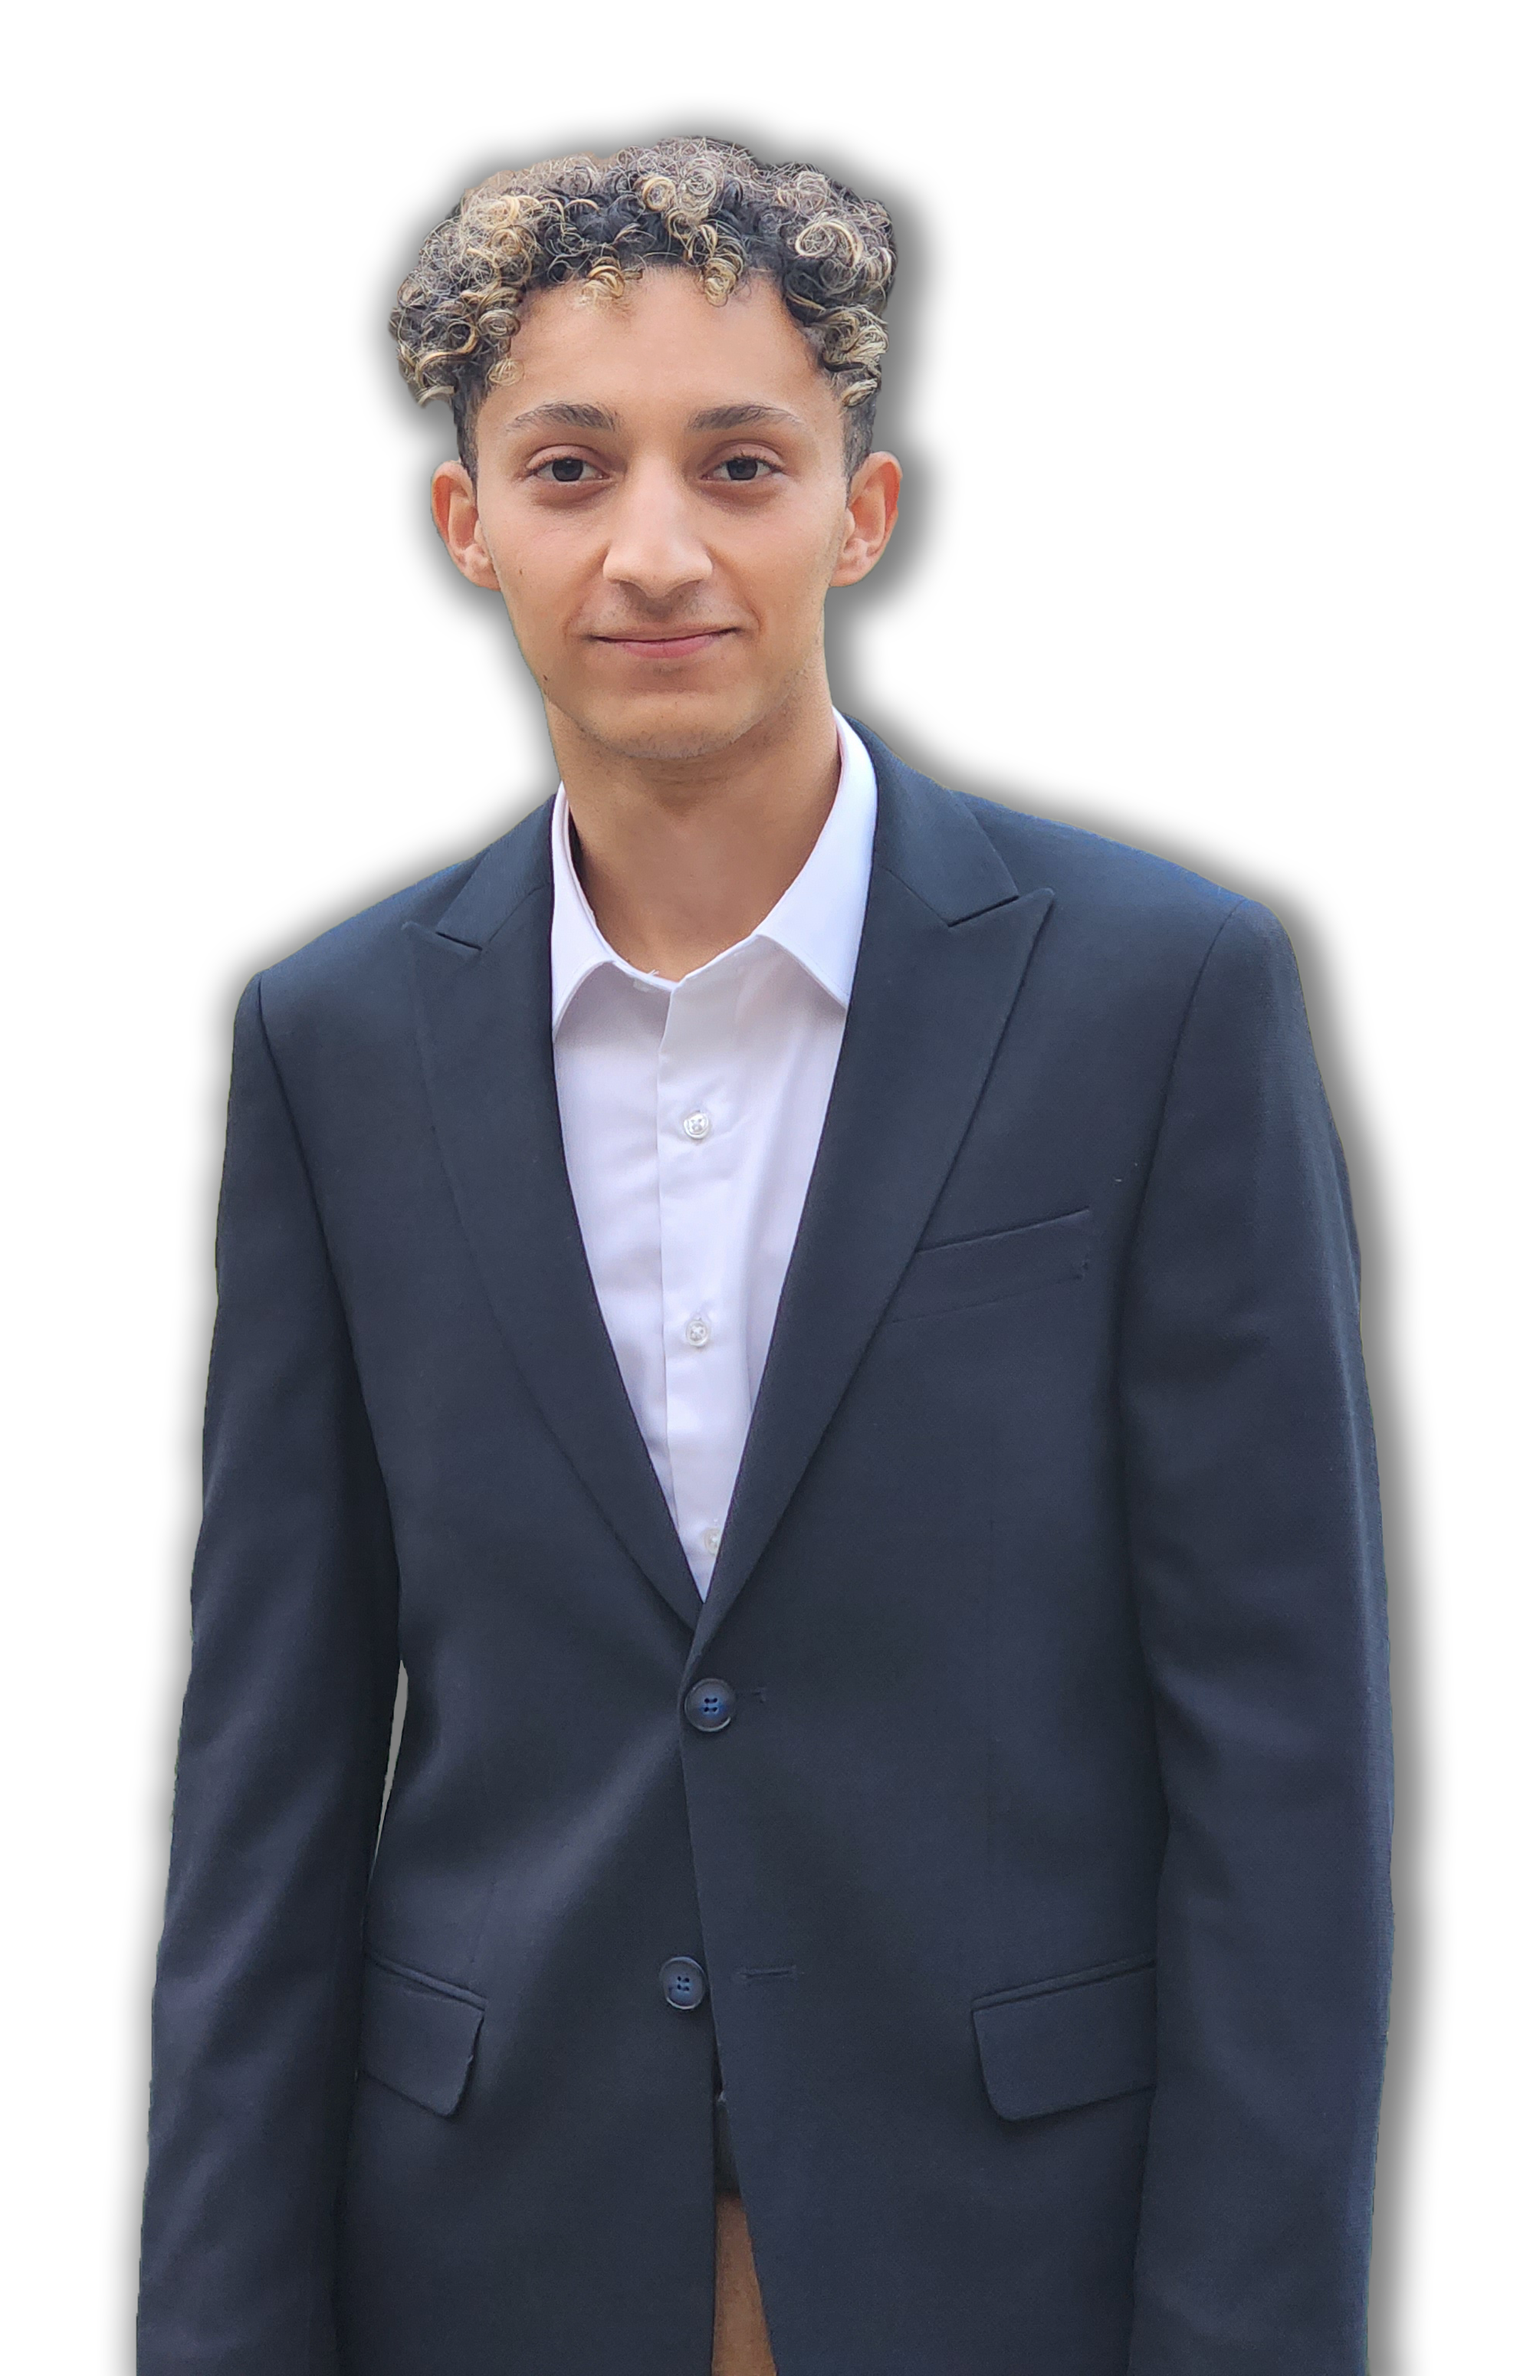
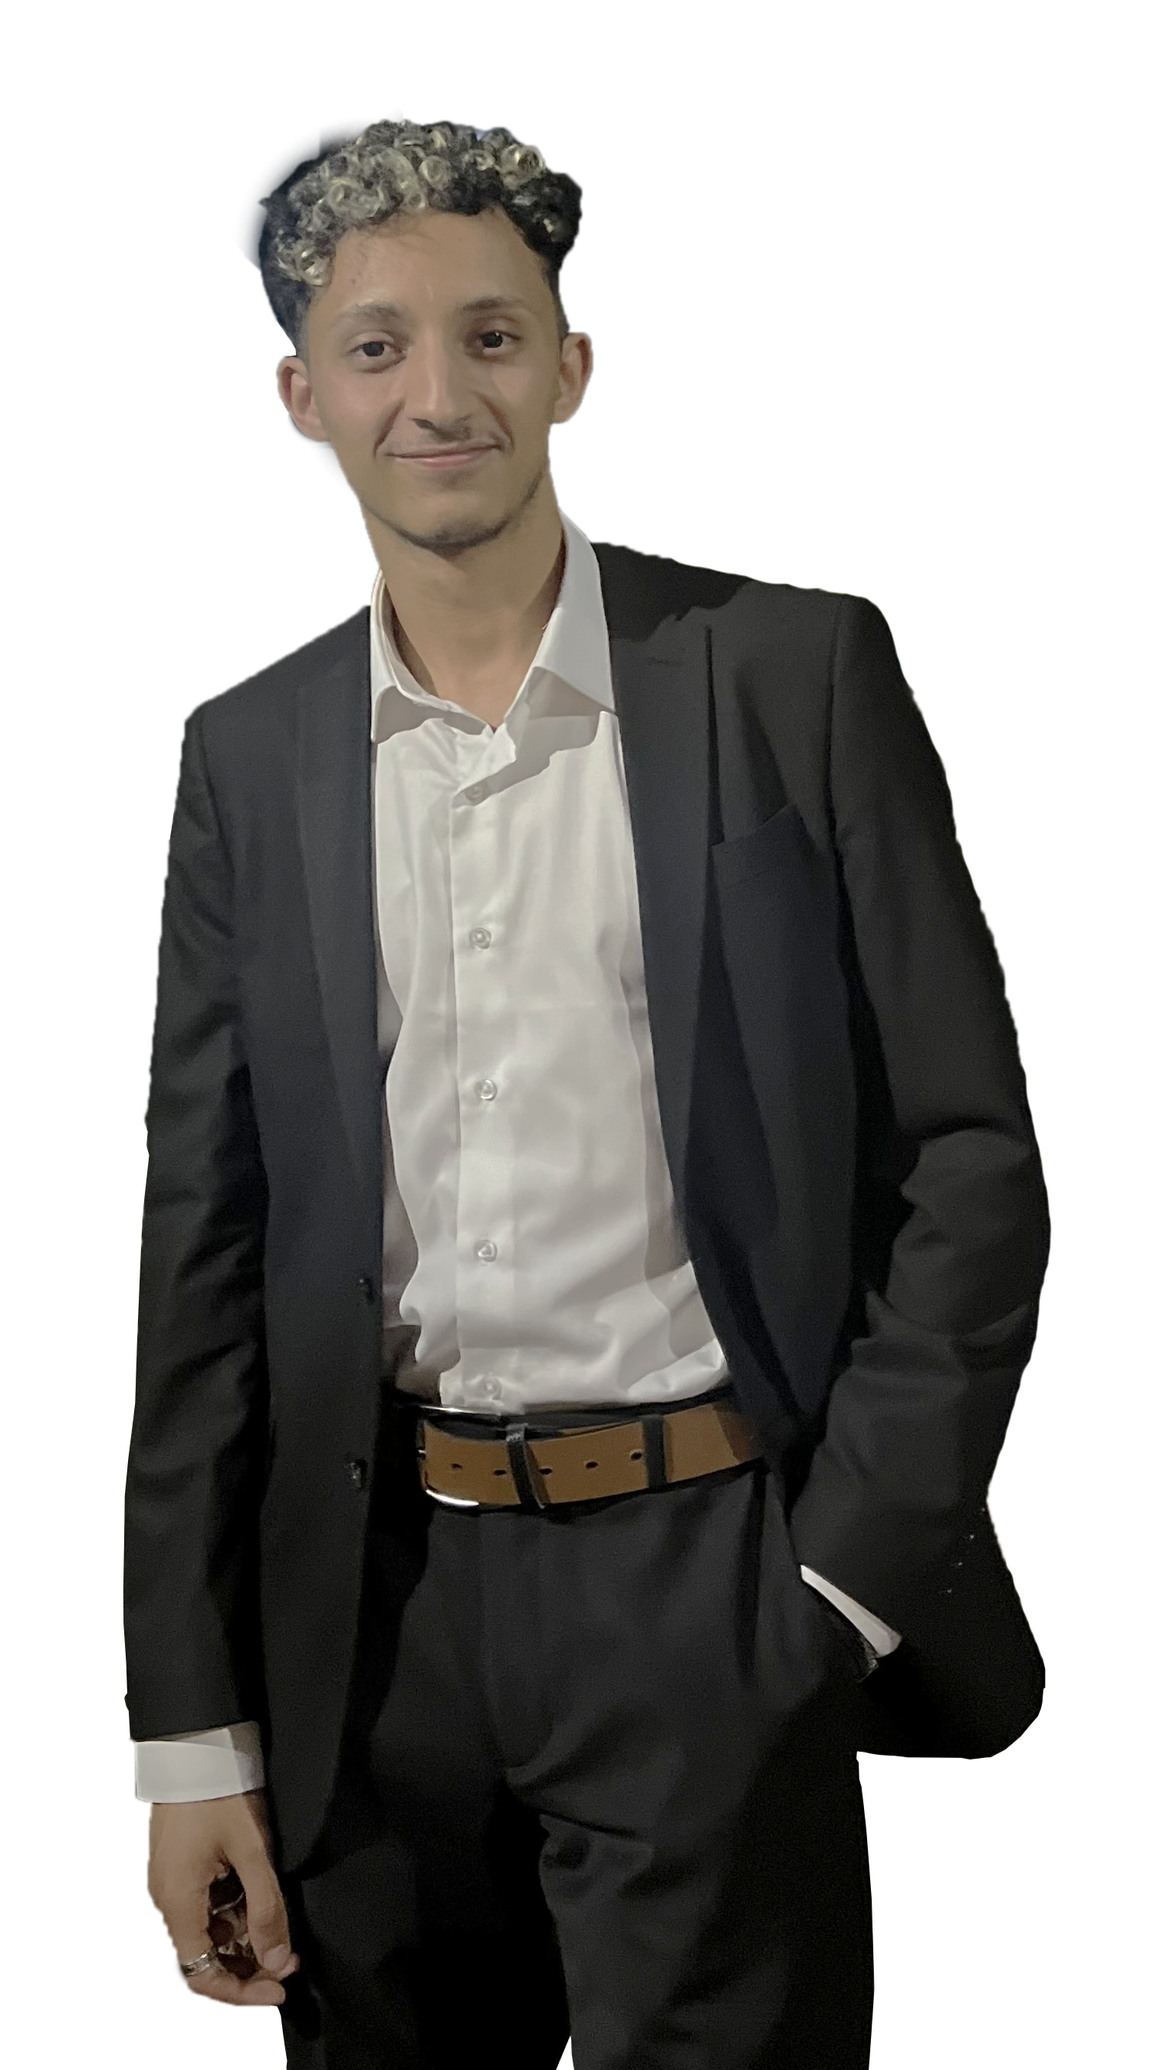
Updated photos and captions

diff --git a/src/Pages/Art.jsx b/src/Pages/Art.jsx
@@ -8,9 +8,9 @@ export default function Art() {
         <>
             <div className="text-primary font-bold text-5xl pt-8 text-center">Art</div>
             <div className="mt-4 text-center text-white after:content-['_music!'] after:text-primary after:font-bold">
-                I am currently pursuing a minor in
+                I completed a minor in
             </div>
-            <div className="text-center text-white">Here are excerpts of my artistic works:</div>
+            <div className="text-center text-white">Here are excerpts from my artistic works:</div>
             <img src={GroupPic} alt="" className="
                 mx-auto
                 md:mx-0 md:w-[40rem] 
@@ -22,20 +22,28 @@ export default function Art() {
 
             <div className='mt-5 md:relative md:top-[35rem]'>
                 <div className='bg-secondary pb-10'>
-                    <div className='text-2xl text-center text-tertiary font-bold p-4'>Chamber Music Performance</div>
+                    <div className='text-2xl text-center text-tertiary font-bold p-4'>Liebestraum No. 3 - Liszt (Performance)</div>
                     <div className='flex justify-center'>
-                        <iframe width={{sm: 400, md: 700}} height={{sm: 240, md: 394}} src="https://www.youtube.com/embed/RNaKVZNk5-c" title="YouTube video player" frameborder="0" allow="accelerometer; autoplay; clipboard-write; encrypted-media; gyroscope; picture-in-picture; web-share" allowFullScreen></iframe>
+                        <iframe width={{ sm: 400, md: 700 }} height={{ sm: 240, md: 394 }} src="https://www.youtube.com/embed/_PToVF1oSz8" title="YouTube video player" frameborder="0" allow="accelerometer; autoplay; clipboard-write; encrypted-media; gyroscope; picture-in-picture; web-share" allowFullscreen></iframe>
                     </div>
                 </div>
 
-                <div className='mt-5'>
+                <div className='mt-5 pb-10'>
+                    <div className='text-2xl text-center text-tertiary font-bold p-4'>
+                        Chamber Music Performance</div>
+                    <div className='flex justify-center'>
+                        <iframe width={{ sm: 400, md: 700 }} height={{ sm: 240, md: 394 }} src="https://www.youtube.com/embed/RNaKVZNk5-c" title="YouTube video player" frameborder="0" allow="accelerometer; autoplay; clipboard-write; encrypted-media; gyroscope; picture-in-picture; web-share" allowFullScreen></iframe>
+                    </div>
+                </div>
+
+                <div className='bg-secondary mt-5 pb-10'>
                     <div className='text-2xl text-center text-tertiary font-bold p-4'>Shoft Films</div>
                     <div className='flex justify-center'>
-                        <iframe width={{sm: 400, md: 700}} height={{sm: 240, md: 394}} src="https://www.youtube.com/embed/No9A6AG1ym4" title="YouTube video player" frameborder="0" allow="accelerometer; autoplay; clipboard-write; encrypted-media; gyroscope; picture-in-picture; web-share" allowFullScreen></iframe>
+                        <iframe width={{ sm: 400, md: 700 }} height={{ sm: 240, md: 394 }} src="https://www.youtube.com/embed/No9A6AG1ym4" title="YouTube video player" frameborder="0" allow="accelerometer; autoplay; clipboard-write; encrypted-media; gyroscope; picture-in-picture; web-share" allowFullScreen></iframe>
                     </div>
                 </div>
 
-                <div className='bg-secondary mt-10 pb-5'>
+                <div className='mt-10 pb-5'>
                     <div className='text-2xl text-center text-tertiary font-bold p-4'>Piano Covers</div>
                     <div className='flex flex-col items-center'>
                         <div className='flex'>
@@ -46,7 +54,7 @@ export default function Art() {
                             <p><b>Reels</b> section!</p>
                         </div>
 
-                        <a href="https://www.instagram.com/dhia.eddine.n/reels/" target="_blank" rel="noreferrer">
+                        <a href="https://www.instagram.com/dhia.nini/reels/" target="_blank" rel="noreferrer">
                             <button className="w-[15rem] mt-5 bg-tertiary text-black py-2 px-4 border border-tertiary
             hover:text-tertiary hover:border-tertiary hover:bg-background rounded hover:scale-110
             transition ease-in-out"

diff --git a/src/Pages/Home.jsx b/src/Pages/Home.jsx
@@ -28,7 +28,7 @@ export default function Home() {
                 <Grid item xs={12} md={8}>
                     <div className="text-white text-2xl mt-24">Hi! I am</div>
                     <div className="font-bold text-primary text-6xl after:text-white after:content-['.']">Dhia Eddine Nini</div>
-                    <div className="text-white md:mr-20 text-2xl pt-4 text-justify">A computer science senior who is passionate about <b>software engineering</b>, <b>game development</b>, and <b>music</b>.</div>
+                    <div className="text-white md:mr-20 text-2xl pt-4 text-justify">A Computer Scientist who is passionate about <b>Software Engineering</b>, <b>Game Development</b>, and <b>Music</b>.</div>
 
                     <Stack direction="row" spacing={2} sx={{ paddingTop: 5 }}>
                         <button className="bg-primary text-white py-2 px-4 border border-primary

diff --git a/src/Components/SocialMediaBar.jsx b/src/Components/SocialMediaBar.jsx
@@ -8,7 +8,7 @@ import SocialMediaLink from './SocialMediaLink';
 export default function SocialMediaBar() {
     const linkToLinkedIn = 'https://www.linkedin.com/in/ninidhiaeddine/';
     const linkToFacebook = 'https://www.facebook.com/DhiaEddineNini';
-    const linkToInstagram = 'https://www.instagram.com/dhia.eddine.n/';
+    const linkToInstagram = 'https://www.instagram.com/dhia.nini/';
     const linkToGitHub = 'https://github.com/ninidhiaeddine';
 
     return (
